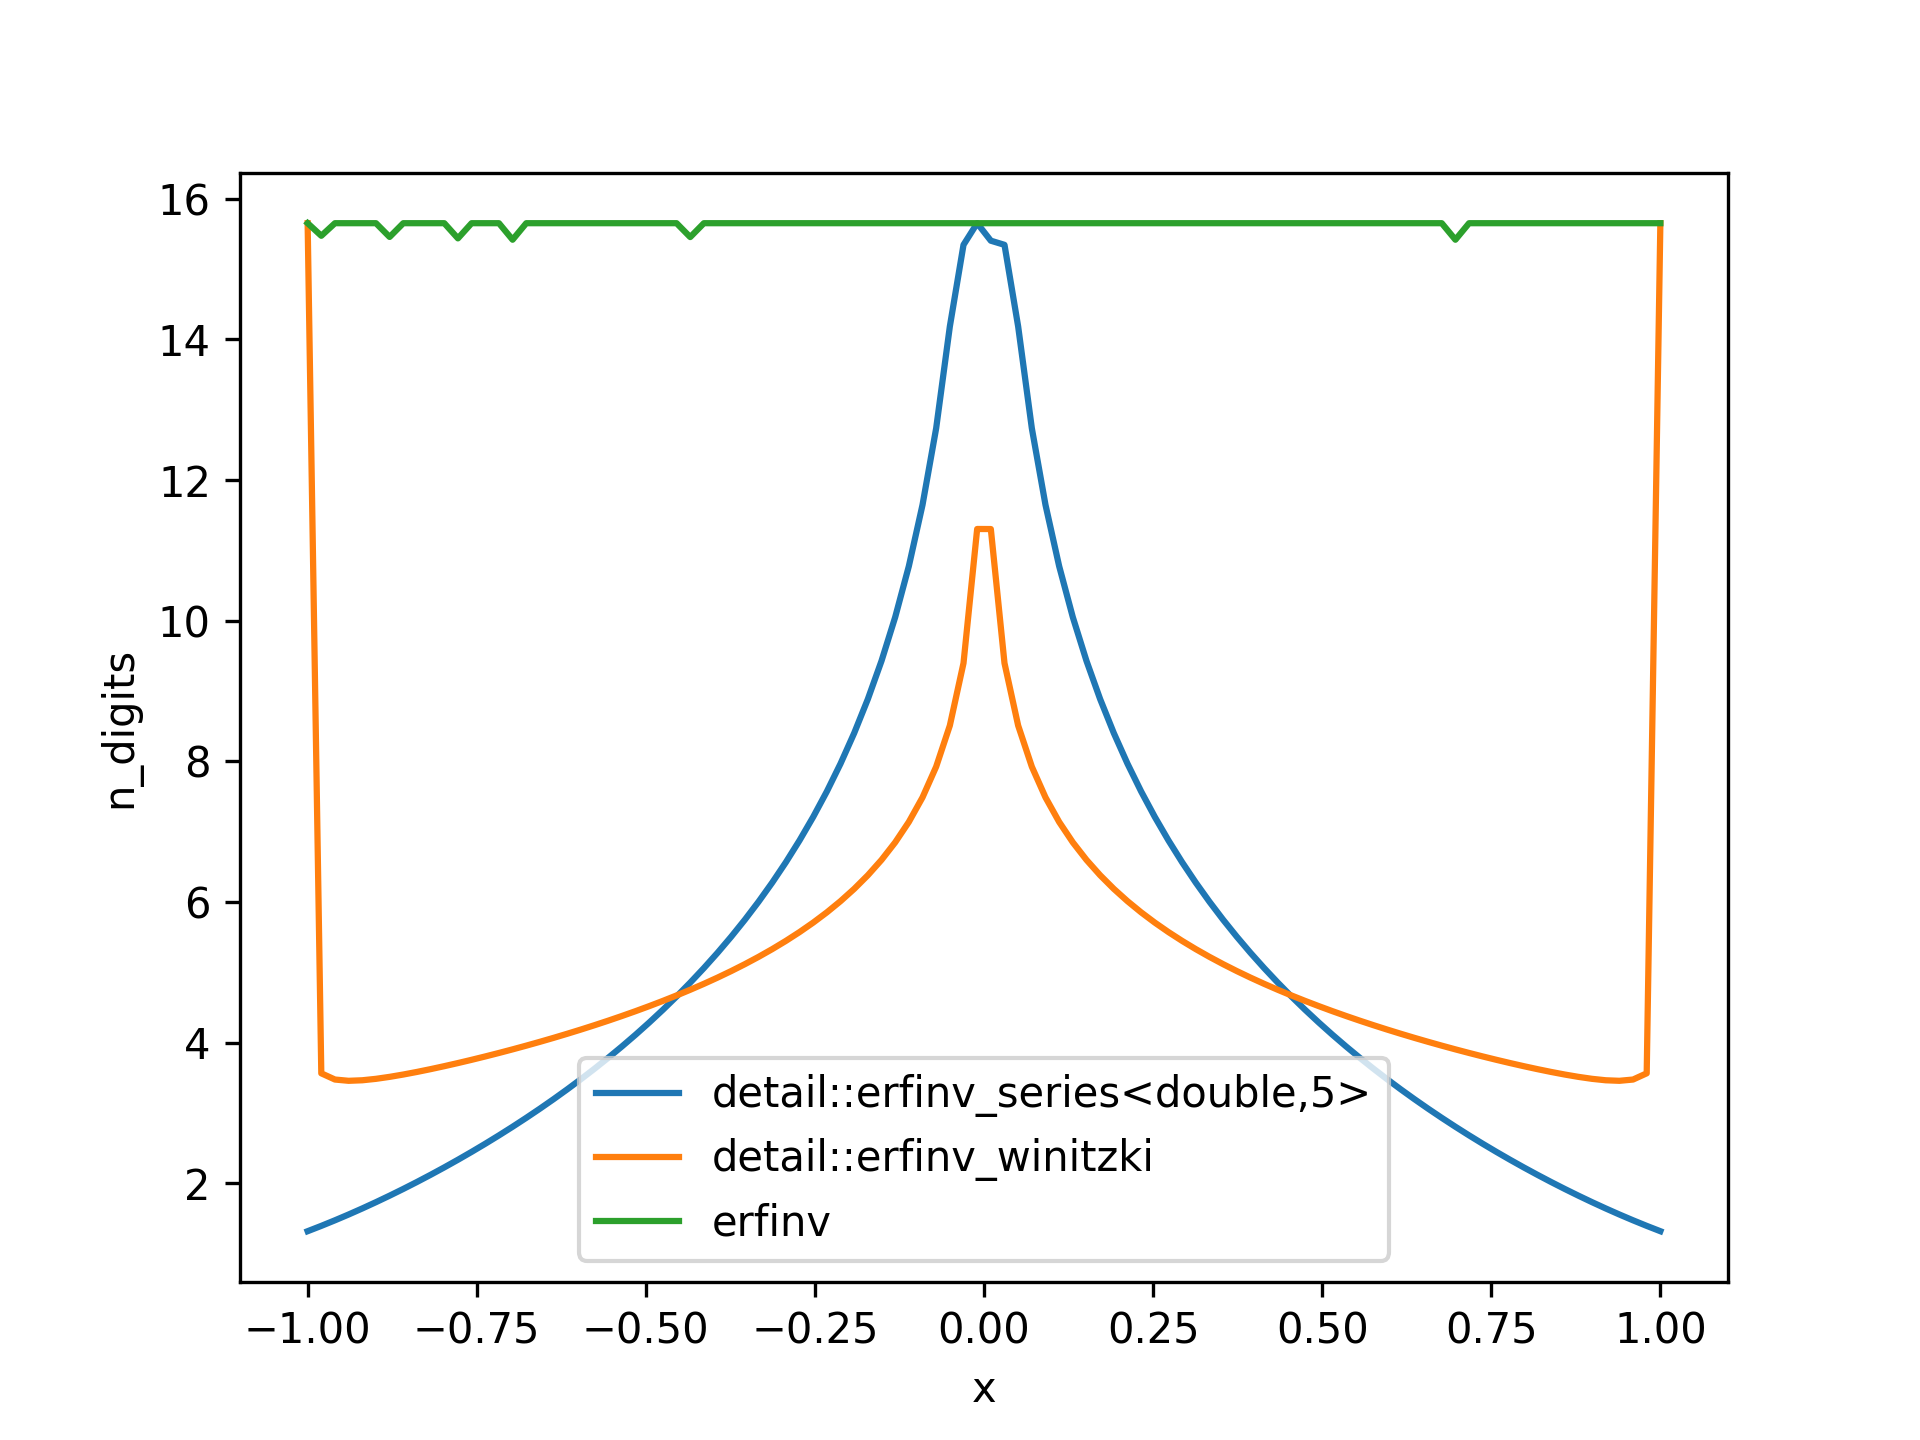
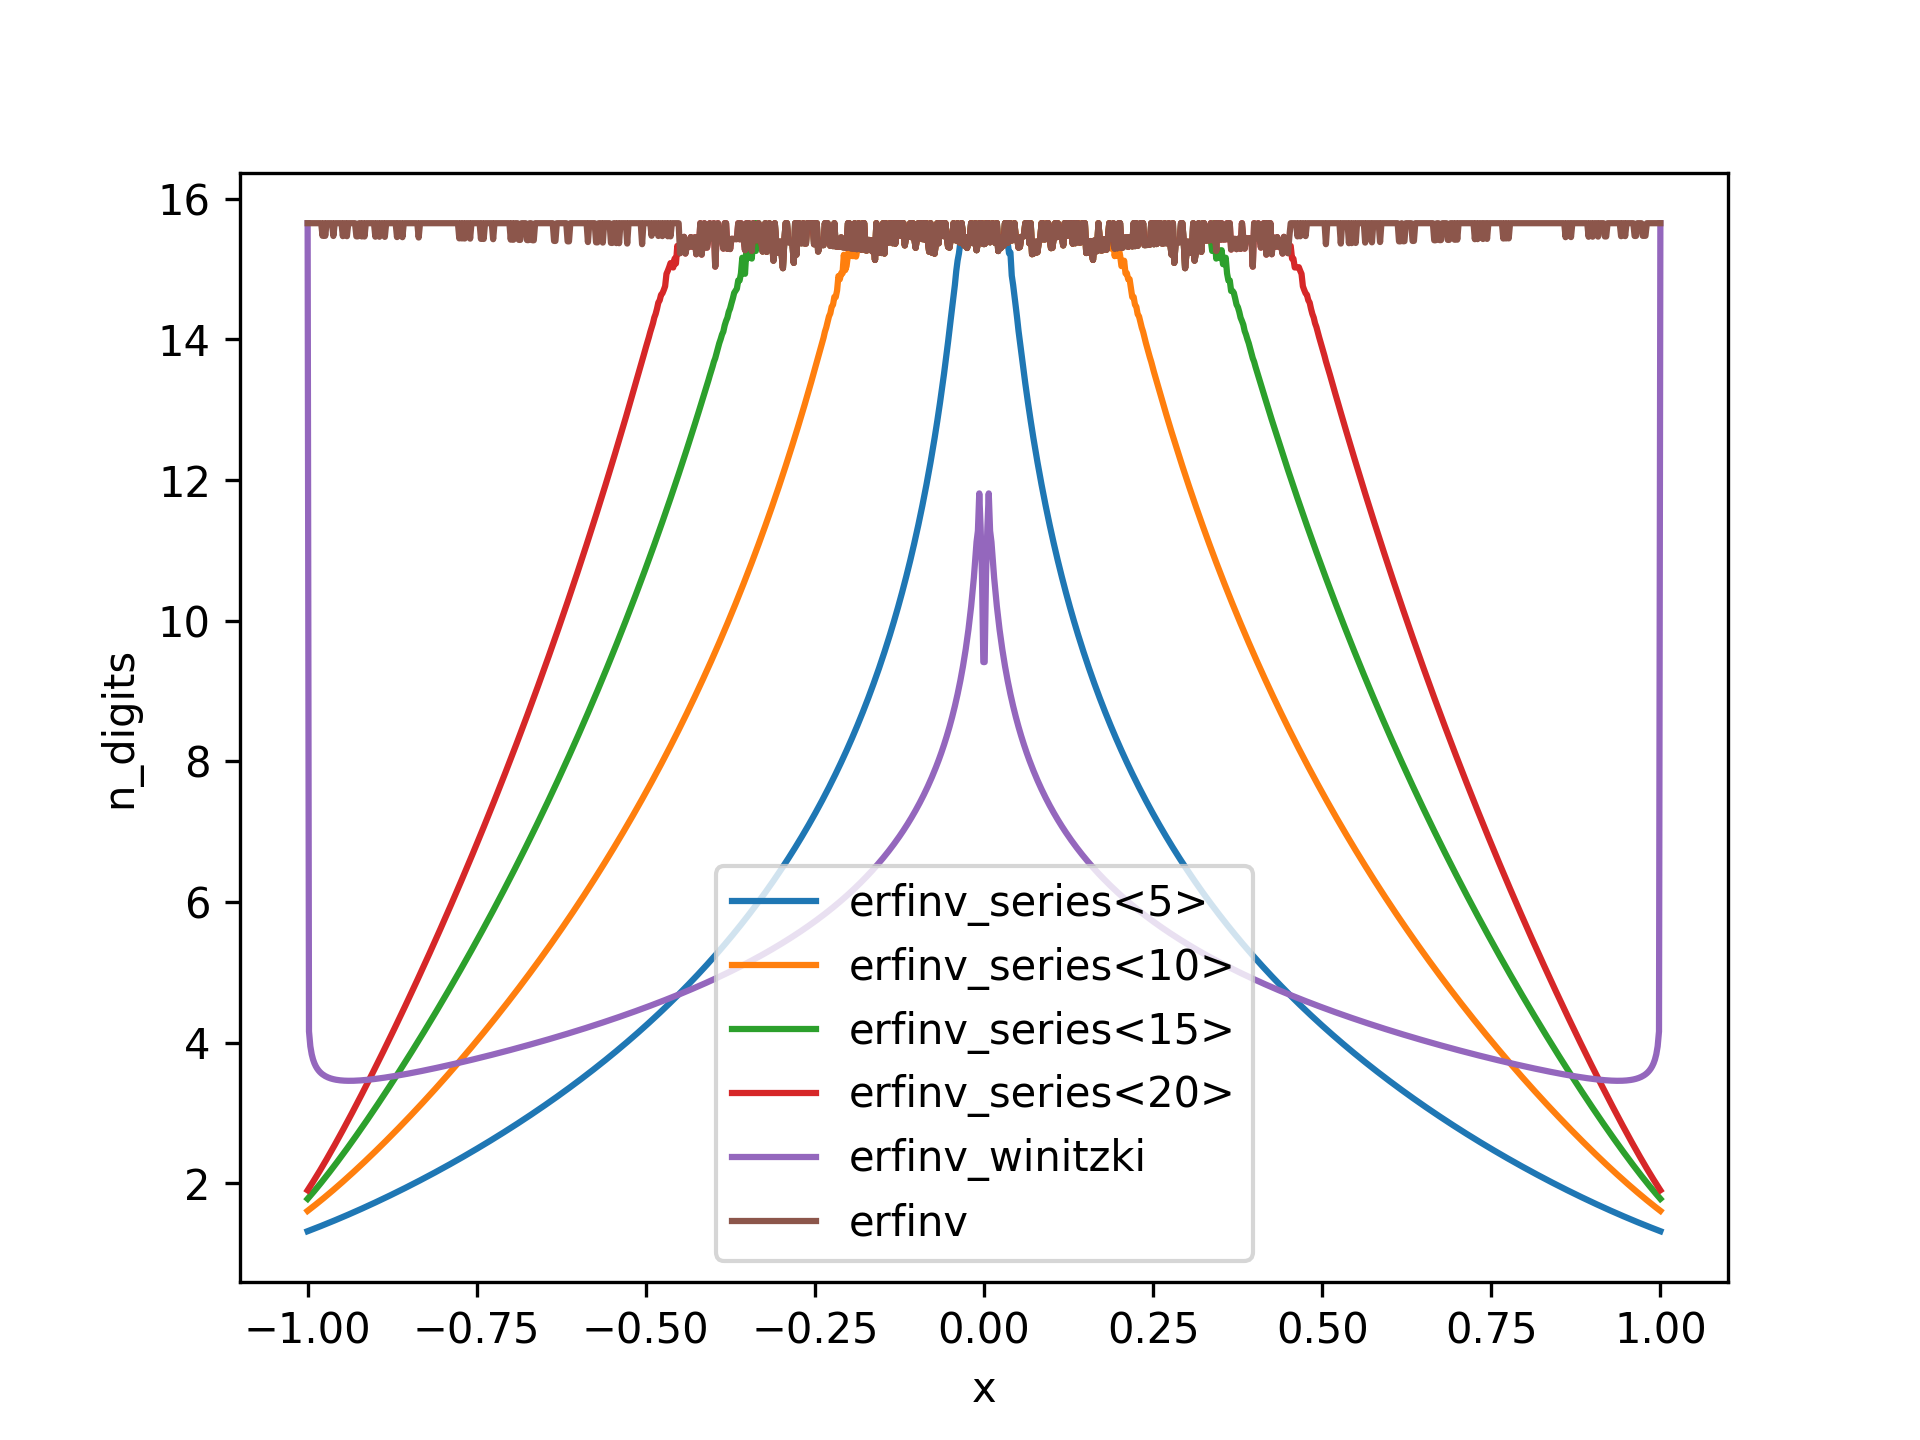
Refactor: faster and better tested
Made erfinv_series faster by not using std::pow.
Increased density of sampling in unit test and made the epsilon tighter.
Added more functions to benchmark.

diff --git a/erfinv.hpp b/erfinv.hpp
@@ -5,13 +5,24 @@
 #include <cstddef>
 #include <limits>
 #include <utility>
-
 namespace erfinv
 {
 namespace detail
 {
 
-constexpr double pi = 3.14159265358979323846;
+constexpr double pi      = 3.14159265358979323846;
+constexpr double sqrt_pi = 1.77245385090551602729;
+
+template<typename T>
+constexpr T constexpr_pow( T x, int n )
+{
+    T res = 1;
+    for( int i = 0; i < n; i++ )
+    {
+        res *= x;
+    }
+    return res;
+}
 
 template<typename T>
 constexpr T c_k( int k )
@@ -24,27 +35,34 @@ constexpr T c_k( int k )
     {
         res += c_k<T>( m ) * c_k<T>( k - 1 - m ) / ( ( m + 1.0 ) * ( 2.0 * m + 1.0 ) );
     }
-
     return res;
 }
 
+template<typename T>
+constexpr T pref_k( int k )
+{
+    return constexpr_pow( sqrt_pi / 2.0, 2 * k + 1 ) / ( 2.0 * k + 1.0 );
+}
+
 template<typename T, size_t... Indices>
-constexpr auto create_ck_array( std::index_sequence<Indices...> )
+constexpr auto create_taylor_coeff_array( std::index_sequence<Indices...> )
 {
     // Use the index sequence to call computeValue for each index
-    return std::array<T, sizeof...( Indices )>{ c_k<T>( Indices )... };
+    return std::array<T, sizeof...( Indices )>{ pref_k<T>( Indices ) * c_k<T>( Indices )... };
 }
 
 template<typename T, int n_terms = 5>
-T erfinv_series( T x )
+constexpr T erfinv_series( T x )
 {
-    constexpr auto coefficient_array = create_ck_array<T>( std::make_index_sequence<n_terms>{} );
+    constexpr auto coefficient_array = create_taylor_coeff_array<T>( std::make_index_sequence<n_terms>{} );
 
     T res     = 0;
     T x_pow_k = x;
+
     for( int k = 0; k < n_terms; k++ )
     {
-        res += std::pow( std::sqrt( pi ) / 2.0 * x, 2 * k + 1 ) / ( 2.0 * k + 1.0 ) * coefficient_array[k];
+        res += coefficient_array[k] * x_pow_k;
+        x_pow_k *= x * x;
     }
     return res;
 }
@@ -65,17 +83,16 @@ T erfinv_winitzki( T x )
     const T t1_2 = t1 * t1;
 
     const T t2 = std::log1p( -x2 ) / a;
-
     const T t3 = 2.0 / ( pi * a ) + std::log1p( -x2 ) / 2.0;
 
     return sign( x ) * std::sqrt( std::sqrt( t1_2 - t2 ) - t3 );
 }
 
 template<typename T>
-T erf_deriv( T x )
+constexpr T erf_deriv( T x )
 {
-    constexpr T pref = 2.0 / std::sqrt( pi );
-    return ( pref * std::exp( -x * x ) );
+    constexpr T pref = 2.0 / sqrt_pi;
+    return pref * std::exp( -x * x );
 }
 
 template<typename T, int n_steps>
@@ -84,19 +101,17 @@ T erfinv_newton( T x, T y )
     // find the root of the function f(y) = x - erf( y )
     for( size_t i = 0; i < n_steps; i++ )
     {
-        auto f = x - std::erf( y );
-        auto df_dy
-            = -erf_deriv( y ) + std::numeric_limits<T>::epsilon(); // guard agains divide by zero, by adding epsilon
+        const auto f     = x - std::erf( y );
+        const auto df_dy = -erf_deriv( y ) + std::numeric_limits<T>::epsilon(); // guard against divide by zero
         y -= f / df_dy;
     }
     return y;
 }
-}; // namespace detail
 
 // Compute the inverse of the error function erf.
 // x has to be a real value on the interval [-1,1]
 template<typename T>
-T erfinv( T x )
+constexpr T erfinv( T x )
 {
     assert( x >= -1.0 );
     assert( x <= 1.0 );
@@ -107,13 +122,24 @@ T erfinv( T x )
     if( x == -1.0 )
         return -std::numeric_limits<T>::infinity();
 
-    T initial_approx{};
-    if( std::abs( x ) < 0.5 )
-        initial_approx = detail::erfinv_series<T, 3>( x );
-    else
-        initial_approx = detail::erfinv_winitzki<T>( x );
+    T res{};
 
-    return detail::erfinv_newton<T, 3>( x, initial_approx );
+    if( x > 0.7 || x < -0.7 )
+    {
+        res = detail::erfinv_winitzki( x );
+        res = detail::erfinv_newton<T, 3>( x, res );
+        return res;
+    }
+
+    res = detail::erfinv_series<T, 10>( x );
+    if( x < 0.2 && x > -0.2 )
+        return res;
+
+    return detail::erfinv_newton<T, 2>( x, res );
 }
+
+}; // namespace detail
+
+using detail::erfinv;
 
 } // namespace erfinv

diff --git a/benchmark/main.cpp b/benchmark/main.cpp
@@ -8,6 +8,8 @@ int main()
     double x       = 0.5;
     double erfinvx = erfinv::erfinv( x );
 
+    ankerl::nanobench::Bench().minEpochIterations( 20050099 );
+
     ankerl::nanobench::Bench().run( "erfinv_winitzki", [&]() {
         ankerl::nanobench::doNotOptimizeAway( erfinvx = erfinv::detail::erfinv_winitzki( x ) );
     } );
@@ -21,15 +23,31 @@ int main()
     } );
 
     ankerl::nanobench::Bench().run( "erfinv_series_3", [&]() {
-        ankerl::nanobench::doNotOptimizeAway( erfinvx = erfinv::detail::erfinv_series<double, 2>( x ) );
+        ankerl::nanobench::doNotOptimizeAway( erfinvx = erfinv::detail::erfinv_series<double, 3>( x ) );
     } );
 
     ankerl::nanobench::Bench().run( "erfinv_series_4", [&]() {
-        ankerl::nanobench::doNotOptimizeAway( erfinvx = erfinv::detail::erfinv_series<double, 2>( x ) );
+        ankerl::nanobench::doNotOptimizeAway( erfinvx = erfinv::detail::erfinv_series<double, 4>( x ) );
     } );
 
     ankerl::nanobench::Bench().run( "erfinv_series_5", [&]() {
-        ankerl::nanobench::doNotOptimizeAway( erfinvx = erfinv::detail::erfinv_series<double, 2>( x ) );
+        ankerl::nanobench::doNotOptimizeAway( erfinvx = erfinv::detail::erfinv_series<double, 5>( x ) );
+    } );
+
+    ankerl::nanobench::Bench().run( "erfinv_series_10", [&]() {
+        ankerl::nanobench::doNotOptimizeAway( erfinvx = erfinv::detail::erfinv_series<double, 10>( x ) );
+    } );
+
+    ankerl::nanobench::Bench().run( "erfinv_newton_1", [&]() {
+        ankerl::nanobench::doNotOptimizeAway( erfinvx = erfinv::detail::erfinv_newton<double, 1>( x, erfinvx ) );
+    } );
+
+    ankerl::nanobench::Bench().run( "erfinv_newton_2", [&]() {
+        ankerl::nanobench::doNotOptimizeAway( erfinvx = erfinv::detail::erfinv_newton<double, 2>( x, erfinvx ) );
+    } );
+
+    ankerl::nanobench::Bench().run( "erfinv_newton_3", [&]() {
+        ankerl::nanobench::doNotOptimizeAway( erfinvx = erfinv::detail::erfinv_newton<double, 2>( x, erfinvx ) );
     } );
 
     ankerl::nanobench::Bench().run(

diff --git a/verification/main.cpp b/verification/main.cpp
@@ -16,29 +16,33 @@ void report( double x, erfinv_func_t erfinv, std::ofstream & fstream )
 
     fstream << std::setprecision( 16 );
     fstream << x << " " << inv << " " << erf_inv << " " << n_digits << "\n";
-
-    std::cout << "erfinv(x)       " << inv << "\n";
-    std::cout << "x               " << x << "\n";
-    std::cout << "erff(erfinv(x)) " << erf_inv << "\n";
-    std::cout << "n_digits        " << n_digits << "\n";
 }
 
 int main()
 {
-    std::ofstream f_series( "series.txt" );
+    std::ofstream f_series_5( "series_5.txt" );
+    std::ofstream f_series_10( "series_10.txt" );
+    // std::ofstream f_series_15( "series_15.txt" );
+    // std::ofstream f_series_20( "series_20.txt" );
     std::ofstream f_winitzki( "winitzki.txt" );
     std::ofstream f_full( "full.txt" );
 
-    int N_Samples = 100;
+    int N_Samples = 10000;
     for( int i = 0; i < N_Samples; i++ )
     {
         double x = -1.0 + 2.0 * i / ( N_Samples - 1.0 );
-        report( x, erfinv::detail::erfinv_series<double, 5>, f_series );
+        report( x, erfinv::detail::erfinv_series<double, 5>, f_series_5 );
+        report( x, erfinv::detail::erfinv_series<double, 10>, f_series_10 );
+        // report( x, erfinv::detail::erfinv_series<double, 15>, f_series_15 );
+        // report( x, erfinv::detail::erfinv_series<double, 10>, f_series_20 );
         report( x, erfinv::detail::erfinv_winitzki<double>, f_winitzki );
         report( x, erfinv::erfinv<double>, f_full );
     }
 
-    f_series.close();
+    f_series_5.close();
+    f_series_10.close();
+    // f_series_15.close();
+    // f_series_20.close();
     f_winitzki.close();
     f_full.close();
 }

diff --git a/verification/plot.py b/verification/plot.py
@@ -1,19 +1,48 @@
 import numpy as np
 import matplotlib.pyplot as plt
 
-
-data_series = np.loadtxt("series.txt")
+data_series_5 = np.loadtxt("series_5.txt")
+data_series_10 = np.loadtxt("series_10.txt")
+data_series_15 = np.loadtxt("series_15.txt")
+data_series_20 = np.loadtxt("series_20.txt")
 data_winitzki = np.loadtxt("winitzki.txt")
 data_full = np.loadtxt("full.txt")
+data_lut = np.loadtxt("lut_100.txt")
 
-data_list = [data_series, data_winitzki, data_full]
-label_list = ["detail::erfinv_series<double,5>", "detail::erfinv_winitzki", "erfinv"]
+data_list = [
+    data_series_5,
+    data_series_10,
+    data_series_15,
+    data_series_20,
+    data_winitzki,
+    data_full,
+    # data_lut,
+]
+label_list = [
+    "erfinv_series<5>",
+    "erfinv_series<10>",
+    "erfinv_series<15>",
+    "erfinv_series<20>",
+    "erfinv_winitzki",
+    "erfinv",
+    # "erfinvLUT<100>",
+]
 for d, l in zip(data_list, label_list):
     plt.plot(d[:, 0], d[:, -1], label=l)
 
 plt.legend()
-
 plt.xlabel("x")
 plt.ylabel("n_digits")
+figname = "n_digits.png"
+print(f"Saving figure to {figname}")
+plt.savefig(figname, dpi=300)
 
-plt.savefig("n_digits.png", dpi=300)
+plt.close()
+for d, l in zip(data_list, label_list):
+    plt.plot(d[:, 0], d[:, 1], label=l)
+figname = "erfinv.png"
+plt.legend()
+plt.xlabel("x")
+plt.ylabel("erfinv(x)")
+print(f"Saving figure to {figname}")
+plt.savefig(figname, dpi=300)

diff --git a/test/test.cpp b/test/test.cpp
@@ -2,12 +2,13 @@
 #include "erfinv.hpp"
 #include <catch2/catch_test_macros.hpp>
 #include <catch2/matchers/catch_matchers_floating_point.hpp>
-
+#include <iostream>
+#include <limits>
 TEST_CASE( "Test erfinv", "[erfinv]" )
 {
     using namespace Catch::Matchers;
 
-    int N_Samples = 100;
+    int N_Samples = 100000;
     for( int i = 0; i < N_Samples; i++ )
     {
         double x = -1.0 + 2.0 * i / ( N_Samples - 1.0 );
@@ -15,6 +16,7 @@ TEST_CASE( "Test erfinv", "[erfinv]" )
         auto inv     = erfinv::erfinv( x );
         auto erf_inv = std::erf( inv );
 
-        REQUIRE_THAT( x, WithinRel( erf_inv ) );
+        // std::cout << "x = " << x << "\n";
+        REQUIRE_THAT( x, WithinRel( erf_inv, 10 * std::numeric_limits<double>::epsilon() ) );
     }
 }

diff --git a/README.md b/README.md
@@ -8,7 +8,7 @@ It is included in the `<cmath>` header as `std::erf`. Unfortunately, the inverse
 Here, the inverse `erfinv` is implemented such that
 `erfinv(erf(x)) = x`, where `x` is a real number in the inverval `[-1,1]`.
 
-I don't expect this to be optimal in any way, but it's good enough for many use cases.
+I don't expect this to be optimal in any way, but it's good enough for many use cases. Proper implementations use piecewise rational function approximations and the like.
 
 __C++14 is required__
 
